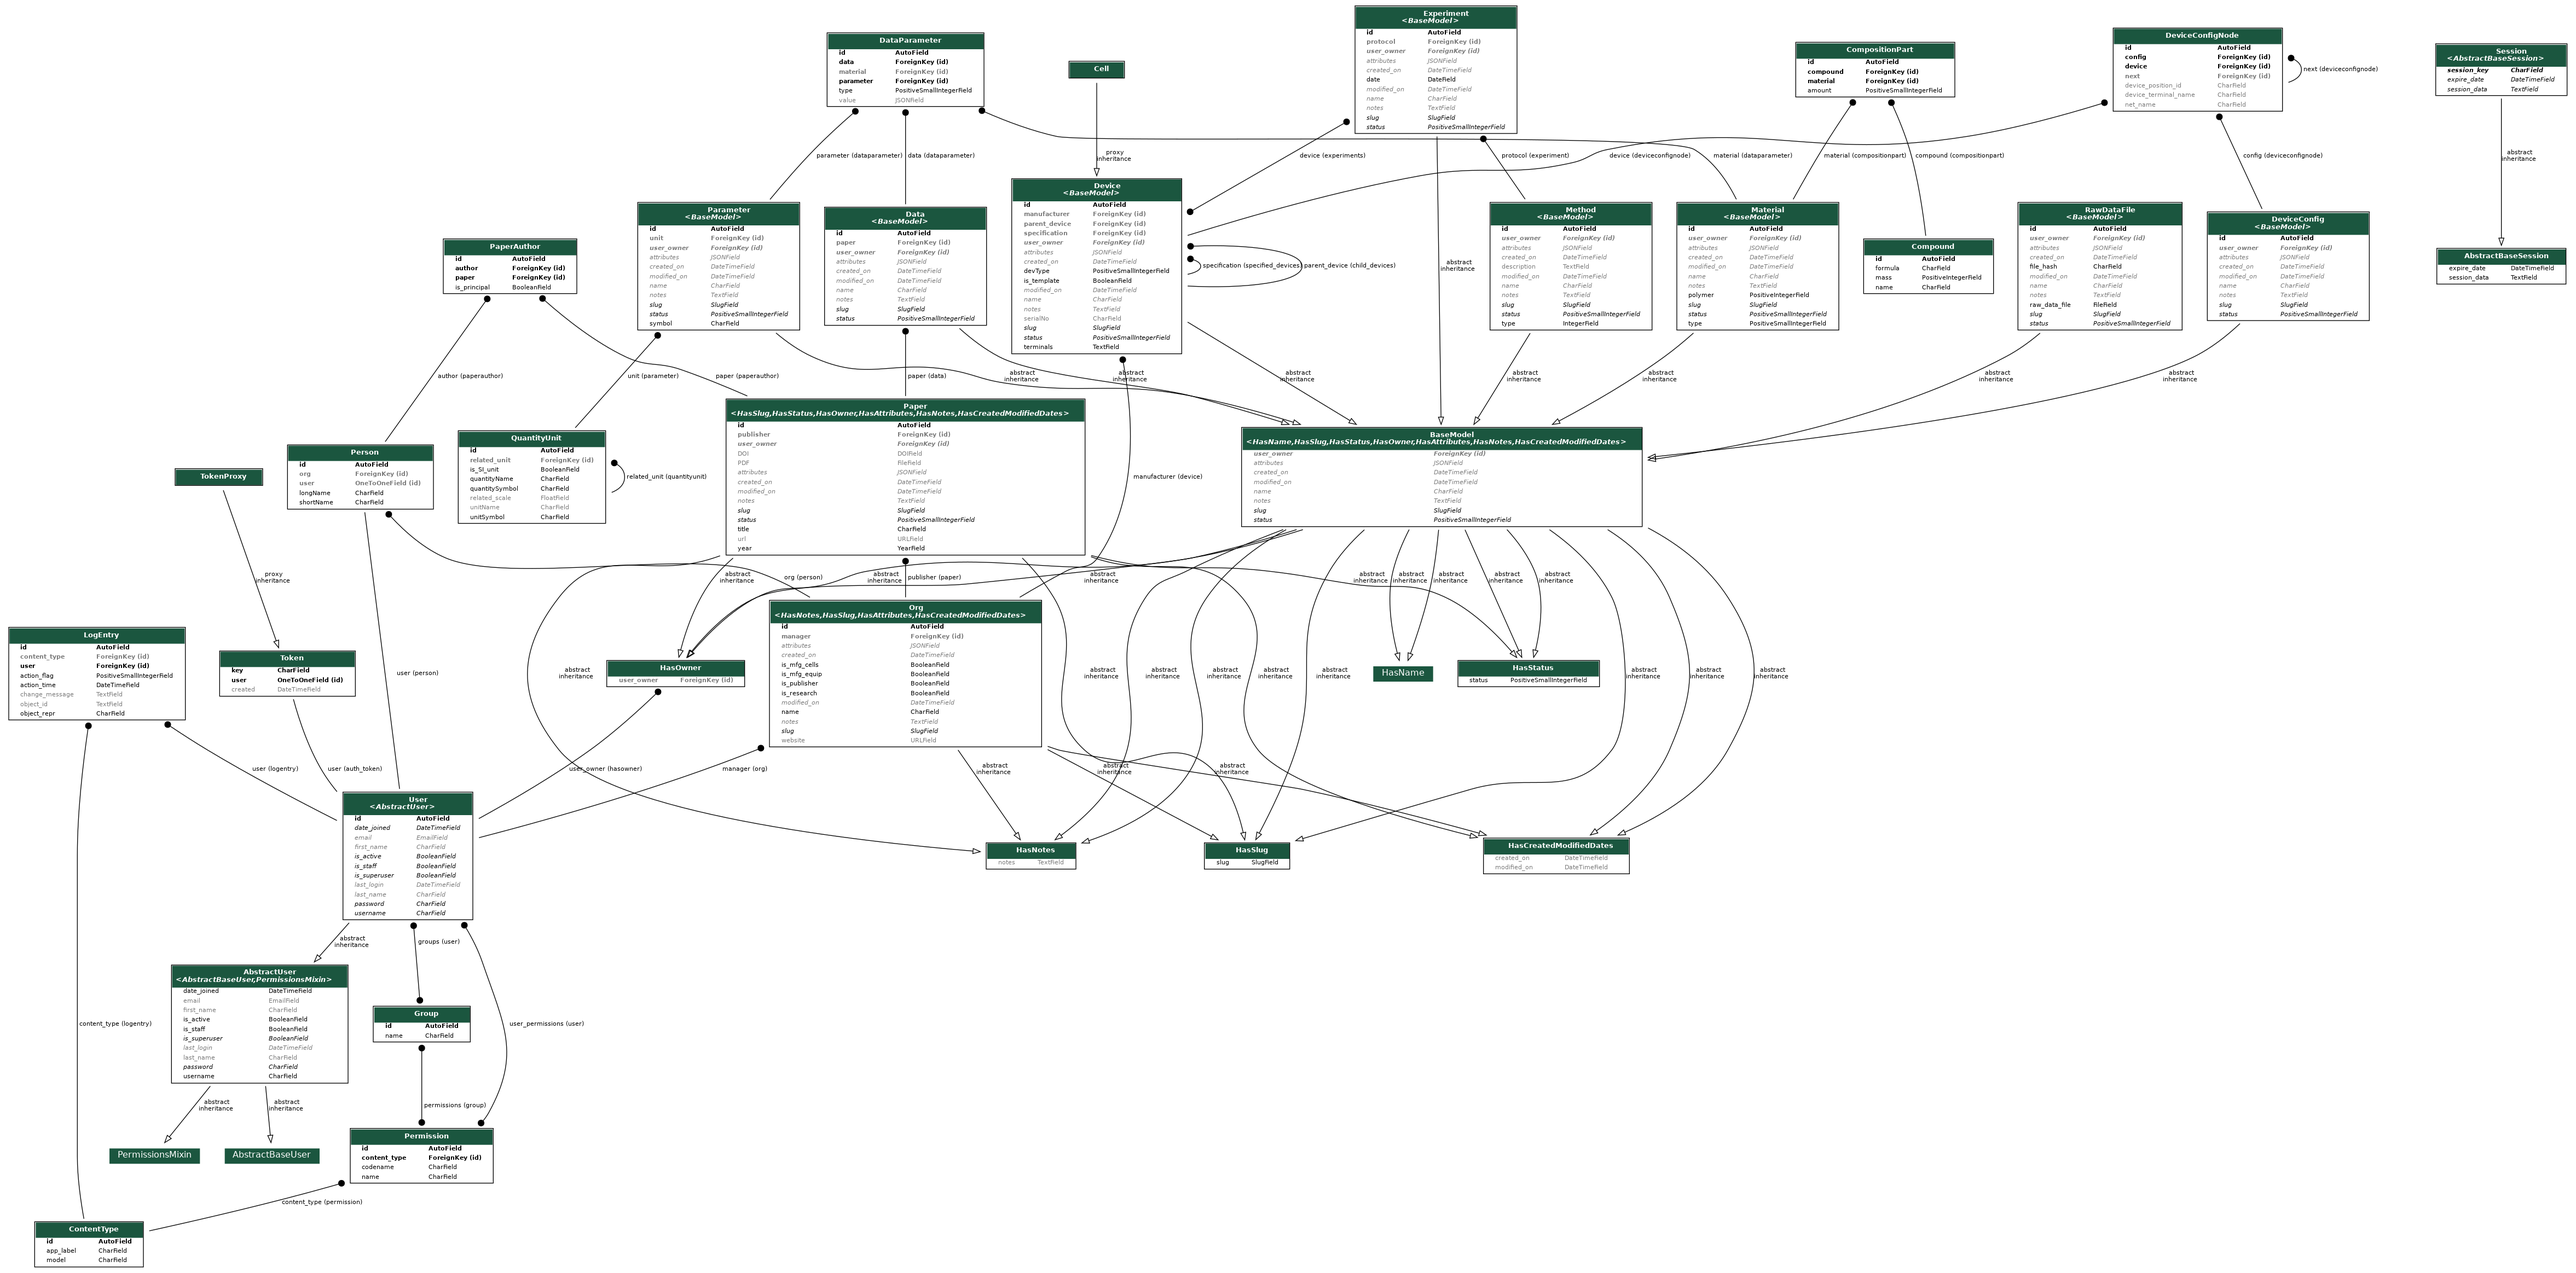
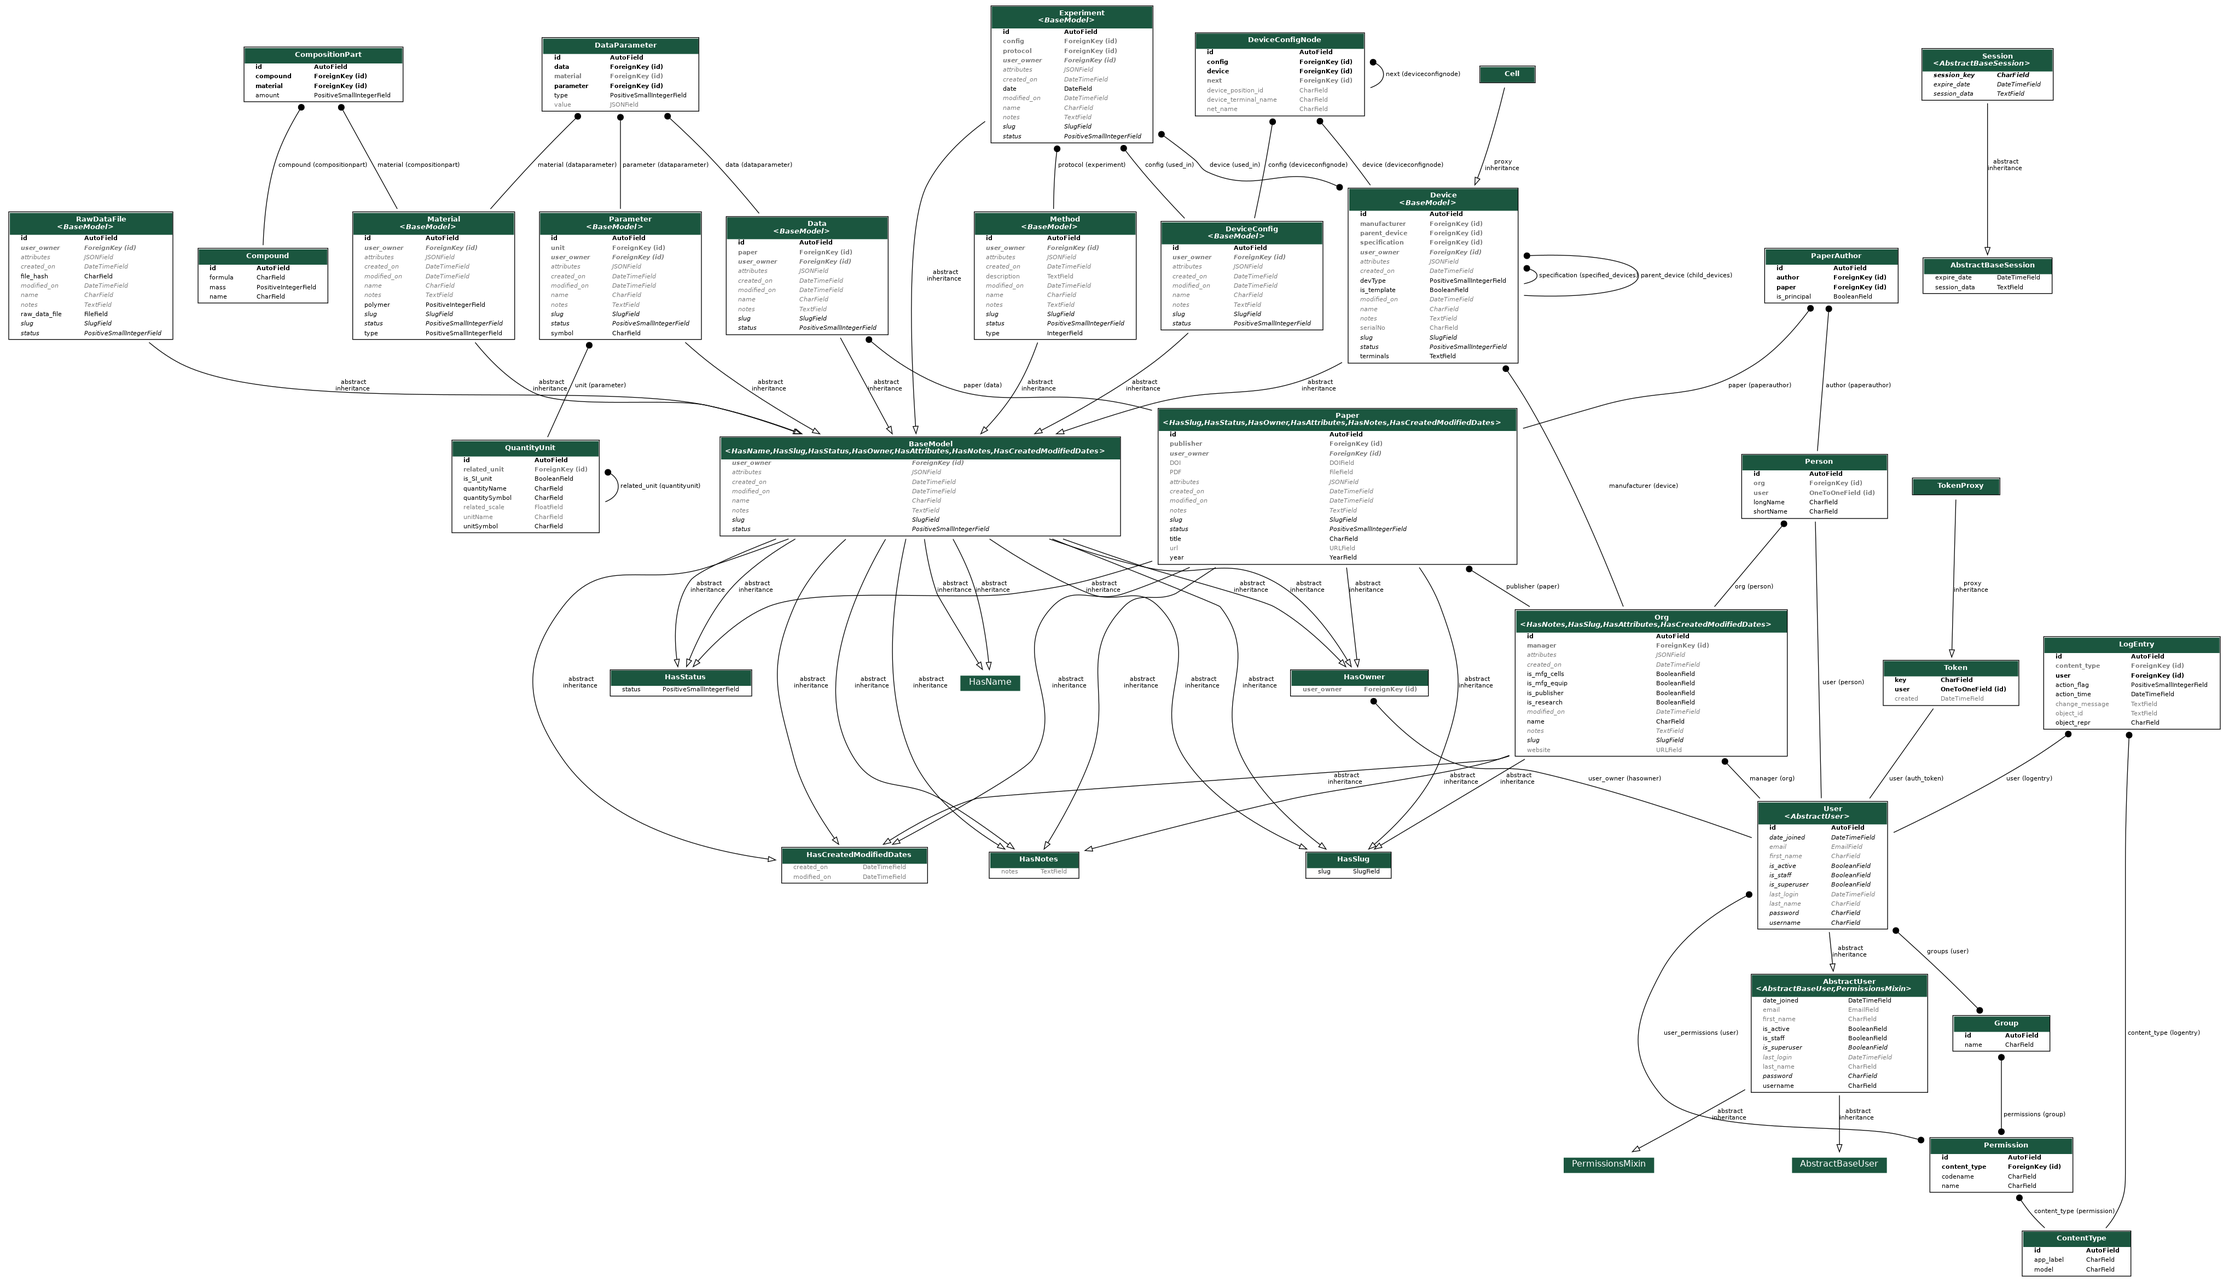
DeviceConfig works.. But could be more generic.. I feel a generalisation coming.. :|

diff --git a/django-battdb/battDB/models.py b/django-battdb/battDB/models.py
@@ -74,6 +74,7 @@ class Device(cm.BaseModel):
     DEVICE_TYPE_APPARATUS = 100
 
     DEVICE_TYPE = (
+        (DEVICE_TYPE_NONE, 'None'),
         (DEVICE_TYPE_CELL, 'Cell'),
         (DEVICE_TYPE_MODULE, 'Module'),
         (DEVICE_TYPE_PACK, 'Pack'),
@@ -96,7 +97,7 @@ class Device(cm.BaseModel):
                                       related_name="specified_devices",
                                       help_text="Parent device specification")
     parent_device = models.ForeignKey('Device', on_delete=models.SET_NULL, null=True, blank=True,
-                                      limit_choices_to={'devType': (DEVICE_TYPE_MODULE, DEVICE_TYPE_PACK)},
+                                      limit_choices_to={'devType': DEVICE_TYPE_MODULE},
                                       related_name="child_devices",
                                       help_text="If this device is part of a module or pack, link to it here")
 
@@ -113,15 +114,16 @@ class Cell(Device):
         self._meta.get_field('is_template').help_text = "Set to True if this is a Cell specification"
         self._meta.get_field('manufacturer').limit_choices_to = {'is_mfg_cells': True}
         self._meta.get_field('serialNo').help_text = "Cell serial number"
-        self._meta.get_field('parent').help_text = "link to module or pack specification"
+        self._meta.get_field('parent_device').help_text = "link to module or pack specification"
         # FIXME: Cannot change 'limit_choices_to' in subclasses - limitation in Django?
-        self._meta.get_field('parent').limit_choices_to = {"is_template": True, "devType": [Device.DEVICE_TYPE_PACK,
-                                                                                            Device.DEVICE_TYPE_MODULE]}
+        self._meta.get_field('parent_device').limit_choices_to = {"is_template": True,
+                                                                  "devType": Device.DEVICE_TYPE_MODULE}
         #self._meta.get_field('serialNo').blank = False
         super(Cell, self).__init__(*args, **kwargs)
 
     class Meta:
         proxy=True
+
 
 
 #class CellBatch(Cell):
@@ -312,11 +314,10 @@ class Experiment(cm.BaseModel):
     """
     date = models.DateField()
     # apparatus = models.ForeignKey(ExperimentalApparatus, on_delete=models.SET_NULL,  null=True, blank=True)
-    device = models.ManyToManyField(Device, related_name='experiments')
-    #cellConfig = models.ForeignKey(CellConfig, on_delete=models.SET_NULL, null=True, blank=True)
+    device = models.ManyToManyField(Device, related_name='used_in')
+    config = models.ForeignKey(DeviceConfig, on_delete=models.SET_NULL, null=True, blank=True, related_name='used_in')
     protocol = models.ForeignKey(dfn.Method, on_delete=models.SET_NULL, null=True, blank=True,
-                                 limit_choices_to={'type': (dfn.Method.METHOD_TYPE_EXPERIMENTAL,
-                                                            dfn.Method.METHOD_TYPE_BOTH)})
+                                 limit_choices_to={'type': dfn.Method.METHOD_TYPE_EXPERIMENTAL})
 
     # parameters = JSONField(default=experimentParameters_schema, blank=True)
     # analysis = JSONField(default=experimentAnalysis_schema, blank=True)

diff --git a/django-battdb/battDB/migrations/0094_auto_20201026_1208.py b/django-battdb/battDB/migrations/0094_auto_20201026_1208.py
@@ -1,0 +1,25 @@
+# Generated by Django 3.1.2 on 2020-10-26 12:08
+
+from django.db import migrations, models
+import django.db.models.deletion
+
+
+class Migration(migrations.Migration):
+
+    dependencies = [
+        ('dfndb', '0033_auto_20201021_1112'),
+        ('battDB', '0093_auto_20201026_1141'),
+    ]
+
+    operations = [
+        migrations.AlterField(
+            model_name='device',
+            name='parent_device',
+            field=models.ForeignKey(blank=True, help_text='If this device is part of a module or pack, link to it here', limit_choices_to={'devType': 30}, null=True, on_delete=django.db.models.deletion.SET_NULL, related_name='child_devices', to='battDB.device'),
+        ),
+        migrations.AlterField(
+            model_name='experiment',
+            name='protocol',
+            field=models.ForeignKey(blank=True, limit_choices_to={'type': 2000}, null=True, on_delete=django.db.models.deletion.SET_NULL, to='dfndb.method'),
+        ),
+    ]

diff --git a/django-battdb/battDB/migrations/0093_auto_20201026_1141.py b/django-battdb/battDB/migrations/0093_auto_20201026_1141.py
@@ -1,0 +1,24 @@
+# Generated by Django 3.1.2 on 2020-10-26 11:41
+
+from django.db import migrations, models
+import django.db.models.deletion
+
+
+class Migration(migrations.Migration):
+
+    dependencies = [
+        ('battDB', '0092_auto_20201022_2335'),
+    ]
+
+    operations = [
+        migrations.AddField(
+            model_name='experiment',
+            name='config',
+            field=models.ForeignKey(blank=True, null=True, on_delete=django.db.models.deletion.SET_NULL, related_name='used_in', to='battDB.deviceconfig'),
+        ),
+        migrations.AlterField(
+            model_name='experiment',
+            name='device',
+            field=models.ManyToManyField(related_name='used_in', to='battDB.Device'),
+        ),
+    ]

diff --git a/django-battdb/battDB/admin.py b/django-battdb/battDB/admin.py
@@ -8,7 +8,7 @@ from .models import *
 
 
 admin.site.register([
-      #Experiment, #Equipment, EquipmentType,
+      Experiment, #Equipment, EquipmentType,
       Device, Cell
       ], BaseAdmin)
 
